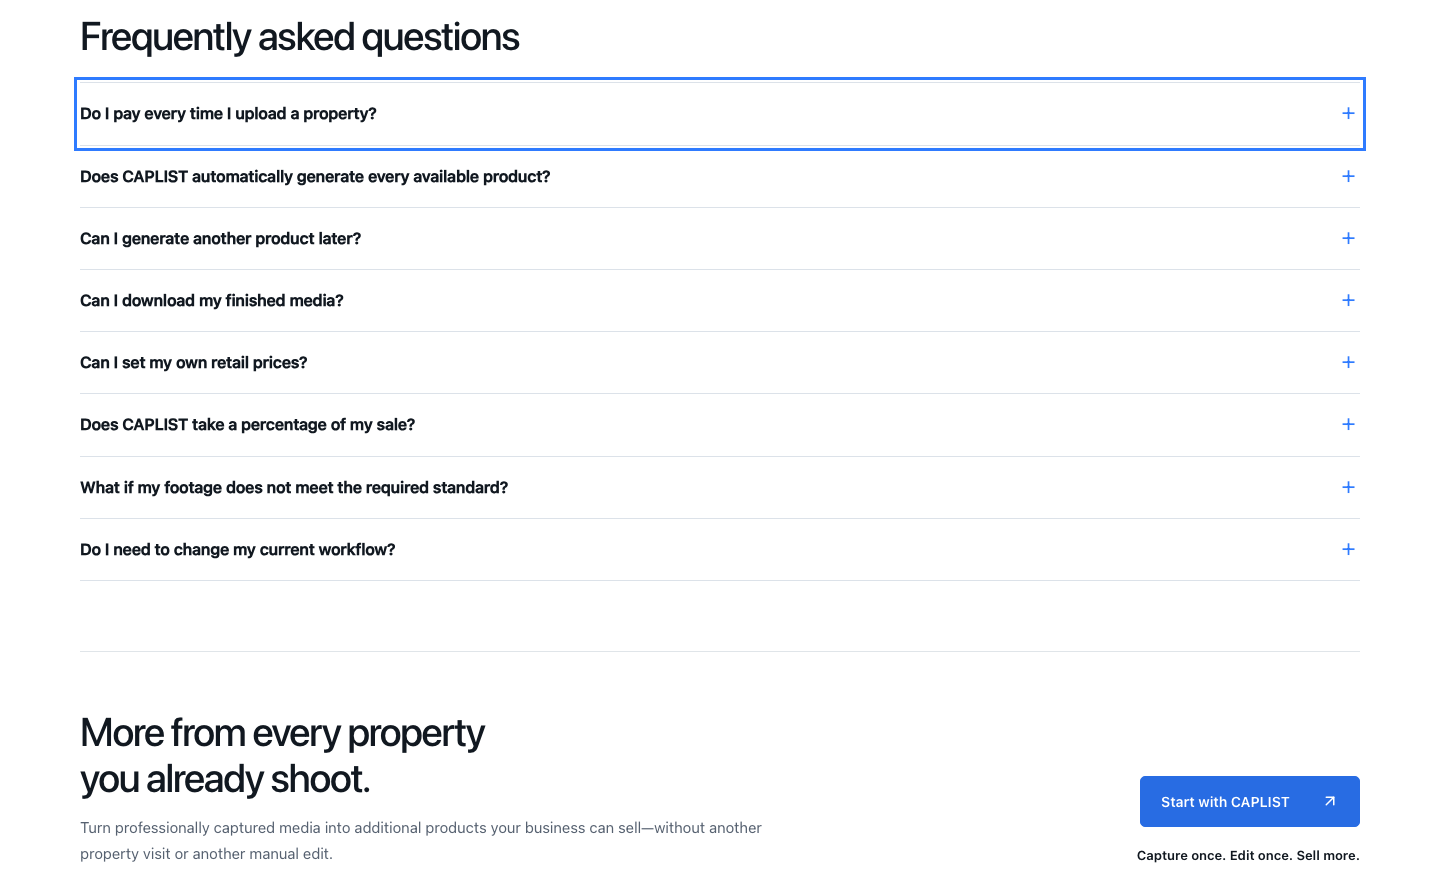
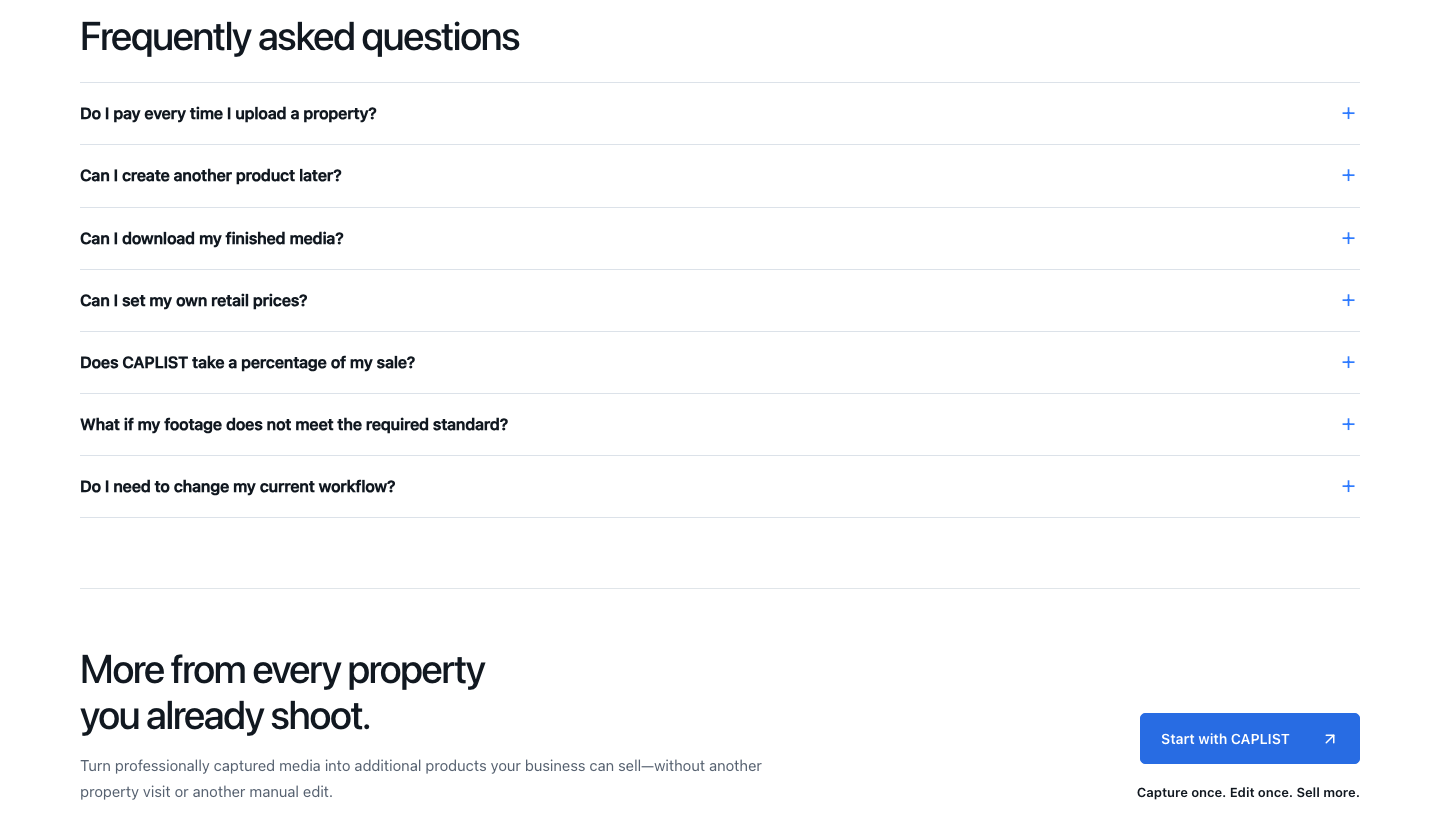
Tighten pricing page copy

diff --git a/app/pricing/page.tsx b/app/pricing/page.tsx
@@ -17,9 +17,7 @@ const plans = [
       "Access the complete CAPLIST workflow with standard wholesale production pricing.",
     features: [
       "Product planning and capture requirements",
-      "Property-media analysis",
-      "Property Media Graph",
-      "Latent product inventory",
+      "Property media analysis and product opportunities",
       "Sales Opportunities",
       "Partner sales support resources",
       "Standard media retention",
@@ -82,24 +80,19 @@ const pricingSteps = [
   {
     title: "Subscribe",
     paragraphs: [
-      "Choose the CAPLIST plan that matches how often your business expects to produce.",
-      "Your subscription gives you access to the platform, product planning, media analysis, Property Media Graph, latent inventory and supporting workflow.",
+      "Choose the CAPLIST plan that matches your business volume. Your subscription gives you access to the platform, media analysis and supporting sales tools.",
     ],
   },
   {
     title: "Capture and upload",
     paragraphs: [
-      "For planned jobs, select the products you intend to sell before the shoot and CAPLIST shows you the required source media.",
-      "For existing or unplanned jobs, simply upload what you already have.",
-      "CAPLIST analyses the media and determines which products it can professionally support.",
+      "Upload the professional media from a completed property. CAPLIST identifies the additional products that media can support.",
     ],
   },
   {
     title: "Produce on demand",
     paragraphs: [
-      "CAPLIST may identify several additional products from a property.",
-      "Those products remain available without being unnecessarily rendered.",
-      "When you decide to create one, you pay the wholesale production rate for your subscription tier.",
+      "Create the products you want, when you need them, at the wholesale production rate for your plan.",
     ],
   },
 ] as const;
@@ -112,14 +105,7 @@ const questions = [
     ],
   },
   {
-    question: "Does CAPLIST automatically generate every available product?",
-    answer: [
-      "No.",
-      "CAPLIST identifies what the property media can support and stores those products as available opportunities. Nothing needs to be rendered until you want it.",
-    ],
-  },
-  {
-    question: "Can I generate another product later?",
+    question: "Can I create another product later?",
     answer: [
       "Yes.",
       "If the required source media remains available, CAPLIST can use the existing property analysis to create another eligible product later without unnecessarily starting from scratch.",
@@ -176,7 +162,7 @@ export default function Pricing() {
               CAPLIST gives professional property-media businesses the tools to turn each completed shoot into more products to sell.
             </p>
             <p>
-              Subscribe for access to the platform, media intelligence and workflow. Then pay a wholesale production rate only when you choose to create a finished commercial product.
+              Subscribe for access to the platform, media intelligence and workflow. Then pay the wholesale production rate for each finished product you create.
             </p>
           </div>
           <div className={styles.heroFoot}>
@@ -216,9 +202,8 @@ export default function Pricing() {
             <p className={styles.eyebrow}>WHOLESALE PRODUCTION PRICING</p>
             <h2 id="production-title">Pay when you create something to sell.</h2>
             <div className={styles.sectionCopy}>
-              <p>Uploading and analysing a property does not mean CAPLIST automatically generates every product the media can support.</p>
-              <p>CAPLIST analyses the available media, identifies eligible products and keeps those opportunities available within the property.</p>
-              <p className={styles.emphasis}>A production charge applies only when you choose to create a finished commercial product.</p>
+              <p>CAPLIST identifies the additional products your existing media can support and keeps them available to create when you need them.</p>
+              <p className={styles.emphasis}>A production charge applies only when you create a finished product.</p>
             </div>
           </div>
           <div className={styles.rateTableWrap}>
@@ -268,18 +253,17 @@ export default function Pricing() {
         <section className={`${styles.inventory} ${styles.wrap}`} aria-labelledby="inventory-title">
           <div>
             <h2 id="inventory-title">Your media can keep working after the shoot</h2>
-            <h3>Capture now. Sell later.</h3>
-            <p>A property may contain more sellable products than were originally ordered.</p>
-            <p>CAPLIST stores those opportunities as latent product inventory.</p>
-            <p>For example, a completed job may already contain everything required for:</p>
+            <h3>More products, ready when you need them.</h3>
+            <p>A completed property may already contain everything needed to create additional professional media.</p>
+            <p>CAPLIST identifies those opportunities so you can return later and create another product without another property visit.</p>
             <ul className={styles.productChips}>
               <li>Property Teaser</li>
               <li>Vertical Reel</li>
               <li>Drone Reel</li>
               <li>Alternative Edit</li>
             </ul>
-            <p className={styles.emphasis}>Nothing is generated until you choose to create it.</p>
-            <p>That means you can return to an existing property and produce additional media without another visit, provided the required source media remains available.</p>
+            <p className={styles.emphasis}>Create what you need, when you need it.</p>
+            <p>Return to an existing property and produce additional media from the source assets already captured.</p>
           </div>
         </section>
 
